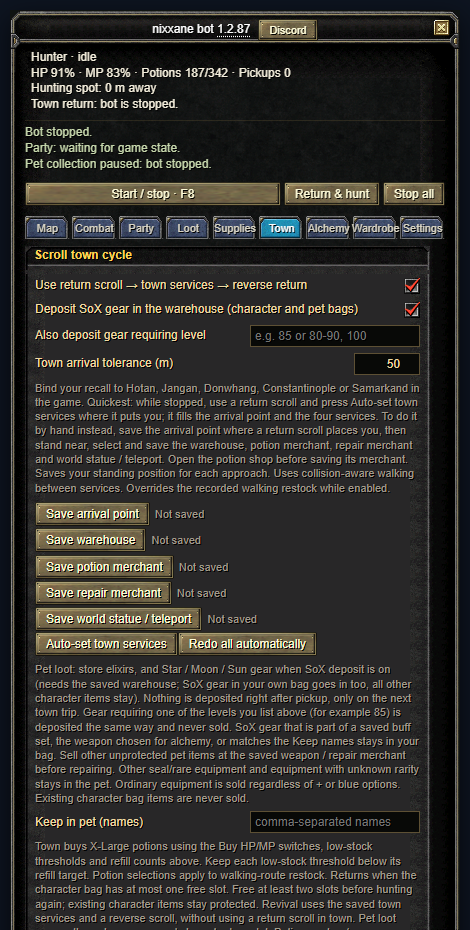
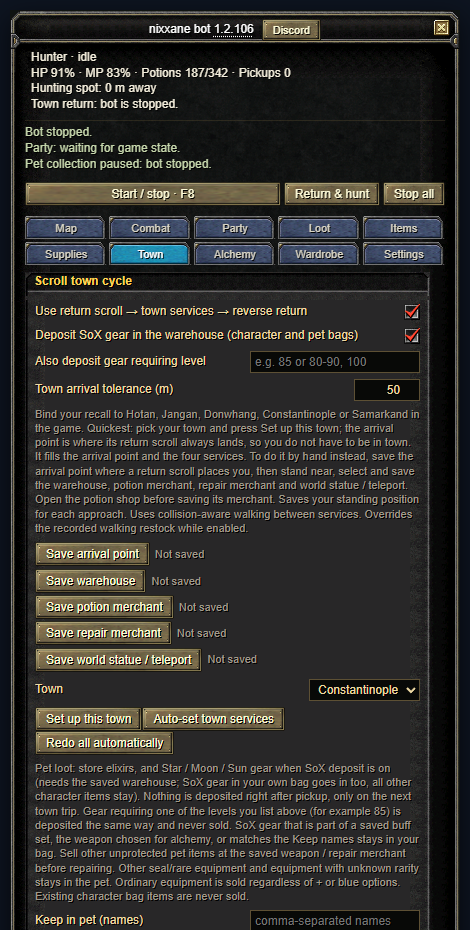
1.2.106 patch notes, town setup guide

diff --git a/guide.html b/guide.html
@@ -63,7 +63,7 @@
       <li>Stop the bot while you save points.</li>
     </ul>
     <h3>Set the town points automatically</h3>
-    <p>Open the <strong>Town</strong> page and scroll to <strong>Scroll town cycle</strong>. Use a return scroll, don't move, and click <strong>Auto-set town services</strong>. The bot recognises the town and fills the arrival point, warehouse, potion merchant, repair merchant and world statue. It only fills what is empty. <strong>Redo all automatically</strong> replaces everything.</p>
+    <p>Open the <strong>Town</strong> page and scroll to <strong>Scroll town cycle</strong>. Pick your town in the <strong>Town</strong> list and click <strong>Set up this town</strong>; you do not have to be in town. The bot fills the arrival point (where that town's return scroll always lands), warehouse, potion merchant, repair merchant and world statue. <strong>Auto-set town services</strong> does the same for the town you stand in and only fills what is empty. <strong>Redo all automatically</strong> replaces everything.</p>
     <p class="note">Press it where the return scroll puts you if you can. If the saved arrival point is not where the scroll lands, the bot corrects it by itself after the first recall: once your character stands still in the town for three seconds, that spot becomes the arrival point.</p>
     <h3>Or save the points by hand</h3>
     <ol>
@@ -71,7 +71,7 @@
       <li>Walk to the warehouse, stand a few steps in front of the NPC on open ground, <strong>select the NPC in the game</strong>, then click <strong>Save warehouse</strong>. Do the same for the <strong>repair merchant</strong> and the <strong>world statue / teleport</strong>.</li>
       <li>For the <strong>potion merchant</strong>, open its shop first, then click <strong>Save potion merchant</strong>.</li>
     </ol>
-    <img class="shot" src="guide/08-town-cycle.png" width="470" alt="Town page, Scroll town cycle: the town switches, the Auto-set town services button and the five Save buttons, each showing Not saved.">
+    <img class="shot" src="guide/08-town-cycle.png" width="470" alt="Town page, Scroll town cycle: the town switches, the Town list with Set up this town, the Auto-set town services button and the five Save buttons, each showing Not saved.">
     <p class="note">With manual saves the bot walks to the exact spot you stood on. If a merchant is too far from that spot, the trip stalls on the way there. Standing a few steps in front of the NPC, on open ground, avoids it.</p>
     <h3>Choose what to buy</h3>
     <p>In <strong>Potion restock</strong> tick <strong>Buy HP</strong> and <strong>Buy MP</strong> and set <strong>Low stock</strong> (a trip starts at or below it) and <strong>refill to</strong> (the total you want after shopping, counting what you carry). Town trips buy X-Large HP and MP potions. You can also buy vigor potions in the size you choose, and abnormal pills. Archers can tick <strong>Buy arrows</strong> or <strong>Buy bolts</strong> under <strong>Supplies → Arrows and bolts</strong>: they are bought at the repair merchant on the same trip, and equipping them is up to you.</p>

diff --git a/index.html b/index.html
@@ -26,6 +26,14 @@
       <h2 id="patch-notes-title">Patch notes</h2>
       <p class="notes-intro">Install the latest script, then reload the game. Reporting-service fixes apply automatically.</p>
       <article class="release">
+        <h3><a href="https://github.com/nixxane/opensro-bot-lean/commit/cb9a7ac">1.2.106</a> · Town setup: pick your town, no need to stand in it</h3>
+        <ul>
+          <li>The Town page has a Town list and a Set up this town button. Pick Hotan, Jangan, Donwhang, Constantinople or Samarkand and one click fills the arrival point, warehouse, potion merchant, repair merchant and world statue. You no longer have to use a return scroll and stand where it lands first.</li>
+          <li>The arrival point is now a preset too. Each town's return scroll always lands on the same spot, so the bot knows it from the server's own data instead of using wherever you happened to be standing.</li>
+          <li>Auto-set town services and Redo all automatically still work for the town you are in, and now also use the preset arrival point.</li>
+        </ul>
+      </article>
+      <article class="release">
         <h3><a href="https://github.com/nixxane/opensro-bot-lean/commit/2bfb1e0">1.2.105</a> · Alchemy: aim for stat percentages with attribute stones</h3>
         <ul>
           <li>New Item attributes group in the Alchemy tab. Pick an item, choose the lowest percentage you want for each of its stats (Phy. reinforce, Mag. reinforce, attack rating, attack power, critical, defense, block, absorption and so on, depending on the kind of item) and press Fuse attribute stones. The bot fuses attribute stones of the item's degree until every picked stat reaches its target.</li>
